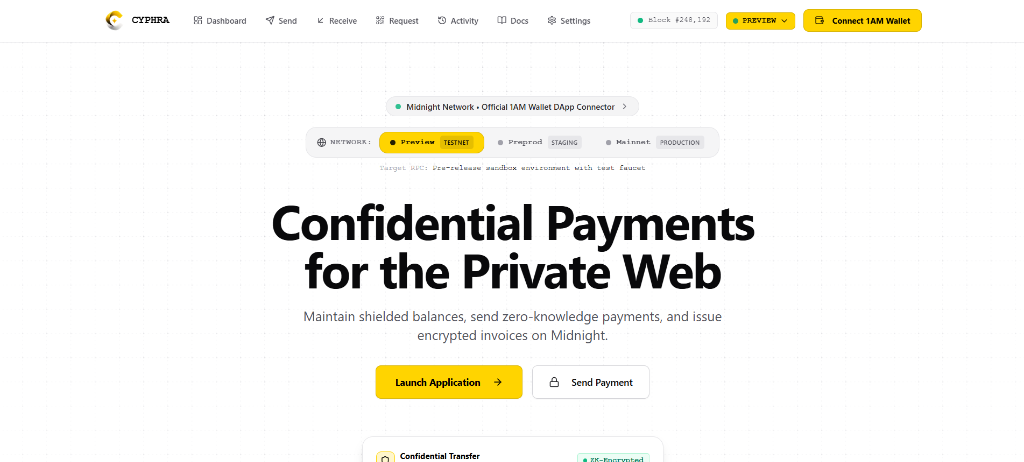
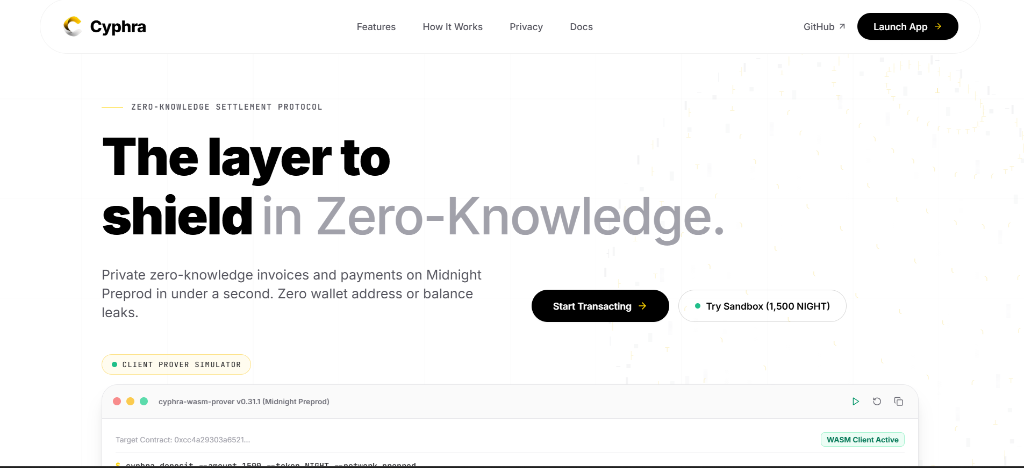
chore: update contract address to d72f60d3, restore app screenshots, update demo video link

diff --git a/frontend/app/settings/page.tsx b/frontend/app/settings/page.tsx
@@ -139,13 +139,13 @@ export default function SettingsPage() {
             <div>
               <span className="text-zinc-500 block mb-1 font-semibold">Contract Address:</span>
               <div className="p-2 rounded-lg bg-zinc-50 border border-zinc-200 font-mono text-[11px] text-black break-all select-all font-bold">
[2 lines of base64/hex data omitted]
               </div>
             </div>
 
             <div className="grid grid-cols-1 sm:grid-cols-2 gap-2 pt-1">
               <a
-                href="https://explorer.1am.xyz/contract/0xcc4a29303a6521ef0881444ce30550d1dabccdd5d70da8c78463bb54ef96db3f?network=preprod"
+                href="https://explorer.1am.xyz/contract/0xd72f60d3f297dc84078e19677b60e88759f9982a3ea3dbf87a387814cda034ad?network=preprod"
                 target="_blank"
                 rel="noopener noreferrer"
                 className="flex items-center justify-between p-2.5 rounded-lg border border-zinc-200 hover:border-black bg-zinc-50 hover:bg-zinc-100 transition-colors font-sans text-xs font-semibold text-black"
@@ -155,7 +155,7 @@ export default function SettingsPage() {
               </a>
 
               <a
-                href="https://preprod.midnightexplorer.com/contracts/0xcc4a29303a6521ef0881444ce30550d1dabccdd5d70da8c78463bb54ef96db3f"
+                href="https://preprod.midnightexplorer.com/contracts/0xd72f60d3f297dc84078e19677b60e88759f9982a3ea3dbf87a387814cda034ad"
                 target="_blank"
                 rel="noopener noreferrer"
                 className="flex items-center justify-between p-2.5 rounded-lg border border-zinc-200 hover:border-black bg-zinc-50 hover:bg-zinc-100 transition-colors font-sans text-xs font-semibold text-black"

diff --git a/frontend/lib/cyphra-content.ts b/frontend/lib/cyphra-content.ts
@@ -26,7 +26,7 @@ export const CYPHRA_CONTENT = {
     xProfileHandle: "@CyphraPayment",
     feedbackForm: "https://docs.google.com/forms/d/e/1FAIpQLSfYoSRlafFLyKo5R6SVqjmtk8gNNz3keOI36e8WwFDYxyf9yA/viewform",
     feedbackSheet: "https://docs.google.com/spreadsheets/d/13xJHXvW1zvbJI4OaE25Wh2Gar39tL4_U0Vgl0ia4zy8/edit?usp=sharing",
-    preprodExplorer: "https://preprod.midnightexplorer.com/contracts/0xcc4a29303a6521ef0881444ce30550d1dabccdd5d70da8c78463bb54ef96db3f",
+    preprodExplorer: "https://preprod.midnightexplorer.com/contracts/0xd72f60d3f297dc84078e19677b60e88759f9982a3ea3dbf87a387814cda034ad",
     oneAmWallet: "https://1am.xyz",
     faucetUrl: "https://faucet.preprod.midnight.network",
   },
@@ -58,7 +58,7 @@ export const CYPHRA_CONTENT = {
   contract: {
     network: "Midnight Preprod Testnet",
     version: "Compact 0.31.1 Standard",
[2 lines of base64/hex data omitted]
     status: "🟢 ACTIVE PREPROD CONTRACT",
     source: "contracts/cyphra/src/cyphra.compact",
     circuits: [

diff --git a/frontend/components/payment/ProofProgressModal.tsx b/frontend/components/payment/ProofProgressModal.tsx
@@ -139,7 +139,7 @@ export function ProofProgressModal({ isOpen, step, onClose, txHash }: ProofProgr
                       <Copy className="w-3 h-3" /> Copy Hash
                     </button>
                     <a
-                      href={`https://preprod.midnightexplorer.com/contracts/0xcc4a29303a6521ef0881444ce30550d1dabccdd5d70da8c78463bb54ef96db3f`}
+                      href={`https://preprod.midnightexplorer.com/contracts/0xd72f60d3f297dc84078e19677b60e88759f9982a3ea3dbf87a387814cda034ad`}
                       target="_blank"
                       rel="noopener noreferrer"
                       className="px-2 py-0.5 rounded text-[11px] font-mono font-semibold bg-[#FFD400] hover:bg-[#E5BE00] text-black border border-black/15 transition-colors flex items-center gap-1"

diff --git a/frontend/components/wallet/NetworkBadge.tsx b/frontend/components/wallet/NetworkBadge.tsx
@@ -126,7 +126,7 @@ export function NetworkBadge() {
             <div className="p-2 border-t border-zinc-100 mt-1 bg-zinc-50 text-[10px] text-zinc-500 font-mono flex items-center justify-between">
               <span className="font-bold text-zinc-700">Contract State:</span>
               <a
-                href="https://preprod.midnightexplorer.com/contracts/0xcc4a29303a6521ef0881444ce30550d1dabccdd5d70da8c78463bb54ef96db3f"
+                href="https://preprod.midnightexplorer.com/contracts/0xd72f60d3f297dc84078e19677b60e88759f9982a3ea3dbf87a387814cda034ad"
                 target="_blank"
                 rel="noreferrer"
                 className="text-black hover:underline font-bold"

diff --git a/frontend/components/layout/Footer.tsx b/frontend/components/layout/Footer.tsx
@@ -68,7 +68,7 @@ export function Footer() {
             <span>•</span>
             {/* Contract link */}
             <a
-              href="https://preprod.midnightexplorer.com/contracts/0xcc4a29303a6521ef0881444ce30550d1dabccdd5d70da8c78463bb54ef96db3f"
+              href="https://preprod.midnightexplorer.com/contracts/0xd72f60d3f297dc84078e19677b60e88759f9982a3ea3dbf87a387814cda034ad"
               target="_blank"
               rel="noreferrer"
               className="text-zinc-700 hover:text-black hover:underline font-bold"

diff --git a/frontend/lib/one-am-wallet-adapter.ts b/frontend/lib/one-am-wallet-adapter.ts
@@ -27,7 +27,7 @@ export type SupportedNetwork = 'preview' | 'preprod' | 'mainnet';
 
 export const AUTHORIZED_NETWORKS: readonly SupportedNetwork[] = ['preview', 'preprod', 'mainnet'] as const;
 
[2 lines of base64/hex data omitted]
 
 function assertNetworkAllowed(network: SupportedNetwork): void {
   if (!AUTHORIZED_NETWORKS.includes(network)) {

diff --git a/frontend/lib/api-client.ts b/frontend/lib/api-client.ts
@@ -261,7 +261,7 @@ export const apiClient = {
       const demoSeed: TransactionActivity[] = [
         {
           id: 'act_preprod_seed_1',
[2 lines of base64/hex data omitted]
           type: 'shield_deposit',
           amount: '1,500.00',
           tokenType: 'NIGHT',

diff --git a/README.md b/README.md
@@ -47,13 +47,33 @@ Unlike legacy blockchains where user balances, counterparty addresses, and entir
 
 ---
 
+### 1. Homepage — Confidential Payments for the Private Web
+
+<p align="center">
+  <img src="./docs/screenshots/01-landing.png" alt="Cyphra Landing Page" width="820" />
+</p>
+
+The Cyphra homepage with animated hero, live Client Prover Simulator terminal, and official 1AM Wallet DApp Connector integration.
+
+---
+
+### 2. Dashboard — Confidential Treasury & ZK Proof Workflow
+
+<p align="center">
+  <img src="./docs/screenshots/02-dashboard.png" alt="Cyphra Dashboard" width="820" />
+</p>
+
+Dashboard showing the **Confidential Shielded Vault** (1,500 NIGHT · 120 DUST · 2,500 tCYPHRA), Privacy Health score **81%**, quick action cards (Send Confidential, Receive Payment, Request Payment, Shield Funds), and the full Zero-Knowledge architecture flow.
+
+---
+
 ### 🔗 Contract Deployment — Midnight Preprod Explorer
 
 <p align="center">
   <img src="./docs/screenshots/05-contract-preprod.png" alt="Cyphra Contract on Midnight Preprod Explorer" width="820" />
 </p>
 
-**Live verification on [midnightexplorer.com](https://preprod.midnightexplorer.com/contracts/0xcc4a29303a6521ef0881444ce30550d1dabccdd5d70da8c78463bb54ef96db3f)** — Contract `0xcc4a2930…96db3f` status **● DEPLOYED**, deployed at Block **#2,518,562** on **Sep 12, 2026, 2:40 PM UTC** with full on-chain Ledger State.
+**Live verification on [midnightexplorer.com](https://preprod.midnightexplorer.com/contracts/d72f60d3f297dc84078e19677b60e88759f9982a3ea3dbf87a387814cda034ad)** — Contract `0xd72f60d3…034ad` status **● DEPLOYED**, deployed at Block **#2,880,143** on **Sep 23, 2026, 9:22 PM UTC** with full on-chain Ledger State.
 
 ---
 
@@ -67,9 +87,12 @@ Unlike legacy blockchains where user balances, counterparty addresses, and entir
 |---|---|---|
 | **Network** | **Midnight Preprod** | Official decentralized Midnight test ledger |
 | **Contract Name** | `CyphraConfidentialPayment` | Privacy-preserving Compact smart contract |
[1 lines of base64/hex data omitted]
-| **Explorer Verification** | [Midnight Preprod Explorer](https://preprod.midnightexplorer.com/contracts/0xcc4a29303a6521ef0881444ce30550d1dabccdd5d70da8c78463bb54ef96db3f) | Verified on-chain ledger state |
-| **1AM Explorer** | [1AM Explorer Contract View](https://explorer.1am.xyz/contract/0xcc4a29303a6521ef0881444ce30550d1dabccdd5d70da8c78463bb54ef96db3f?network=preprod) | 1AM DApp Connector contract index |
[1 lines of base64/hex data omitted]
+| **Explorer Verification** | [Midnight Preprod Explorer](https://preprod.midnightexplorer.com/contracts/d72f60d3f297dc84078e19677b60e88759f9982a3ea3dbf87a387814cda034ad) | Verified on-chain ledger state |
+| **1AM Explorer** | [1AM Explorer Contract View](https://explorer.1am.xyz/contract/0xd72f60d3f297dc84078e19677b60e88759f9982a3ea3dbf87a387814cda034ad?network=preprod) | 1AM DApp Connector contract index |
+| **Deployment Block** | **#2,880,143** | Block hash: `0xb63fcc7e…82373f99` |
+| **Deployed At** | **Sep 23, 2026, 9:22 PM UTC** | Timestamp confirmed on-chain |
[1 lines of base64/hex data omitted]
 | **Ledger Version** | Midnight Ledger 8.0 Preprod | Consensus state machine |
 | **Compact Compiler** | Compact v0.31.1 (`.compact`) | Zero-knowledge intermediate representation |
 | **Active Circuits** | `deposit`, `confidentialTransfer`, `registerPaymentRequest`, `fulfillPaymentRequest`, `grantAuditorAccess`, `revokeAuditorAccess` | 6 full Groth16 cryptographic circuits |
@@ -81,7 +104,7 @@ Unlike legacy blockchains where user balances, counterparty addresses, and entir
 
 A full walkthrough of Cyphra MVP: 1AM Wallet connection on Midnight Preprod, private note commitment creation, confidential transfers, and QR payment request workflows.
 
-- 🎬 **Watch Demo**: [Screen_Recording_2026-09-17_230655.mp4](https://res.cloudinary.com/wt88ln1l/video/upload/v1789666881/Screen_Recording_2026-09-17_230655.mp4)
+- 🎬 **Watch Demo**: [Cyphra MVP Walkthrough](https://drive.google.com/file/d/1MzidnKIqmZnQtFFP-OLMwdHGjNPe6Bps/view?usp=sharing)
 
 ---
 
@@ -90,15 +113,15 @@ A full walkthrough of Cyphra MVP: 1AM Wallet connection on Midnight Preprod, pri
 | Requirement to Pass | Submission Item | Details / Link | Status |
 |---|---|---|---|
 | **Working MVP live on Preprod** | **Live Preprod Demo DApp** | [https://cyphra-two.vercel.app](https://cyphra-two.vercel.app) | Verified Live |
[1 lines of base64/hex data omitted]
-| **Explorer Verification (Midnight)** | **Midnight Network Explorer** | [Midnight Explorer: 0xcc4a29...](https://preprod.midnightexplorer.com/contracts/0xcc4a29303a6521ef0881444ce30550d1dabccdd5d70da8c78463bb54ef96db3f) | Verified On-Chain |
[1 lines of base64/hex data omitted]
+| **Explorer Verification (Midnight)** | **Midnight Network Explorer** | [Midnight Explorer: 0xd72f60d3...](https://preprod.midnightexplorer.com/contracts/d72f60d3f297dc84078e19677b60e88759f9982a3ea3dbf87a387814cda034ad) | Verified On-Chain |
 | **Level 5: 50+ Preprod Wallet Addresses** | **user.md — 79 Real Addresses** | [`user.md`](user.md) (79 unique `mn_addr_preprod1...` from Preprod tester cohort) | **79 Verified** |
 | **Level 5: Feedback with Code Changes** | **docs/FEEDBACK.md** | [`docs/FEEDBACK.md`](docs/FEEDBACK.md) — What We Heard / What We Changed (6 changes) | **Implemented** |
 | **Launch Users Onboarded** | **Preprod Launch Cohort** | [`LAUNCH_USERS.md`](LAUNCH_USERS.md) (20 Users Personally Onboarded with TX Hashes) | 20 Verified Users |
 | **User Feedback & 79 Addresses** | **Feedback & Resolution Matrix** | [`user.md`](user.md) (79 Preprod Test Accounts + User Feedback Matrix) | Highlighted & Solved |
 | **Brand Visuals & Assets** | **Brand Brief, Logo & X Banner** | [`docs/brand-brief.md`](docs/brand-brief.md) + Vector Logo & X Banner Assets | Complete Brand Kit |
 | **Product X Profile & Posts** | **Official X Account & Live Posts** | [@CyphraPayment](https://x.com/CyphraPayment) ([Post 1](https://x.com/CyphraPayment/status/2100484238172664311), [Post 2](https://x.com/CyphraPayment/status/2101046395298078809), [Post 3](https://x.com/CyphraPayment/status/2101048165730574842)) | Published & Linked |
-| **Demo Video of the MVP** | **High-Definition Walkthrough** | [Watch MVP Demo Video](https://res.cloudinary.com/wt88ln1l/video/upload/v1789666881/Screen_Recording_2026-09-17_230655.mp4) | High Quality (Cloudinary MP4) |
+| **Demo Video of the MVP** | **High-Definition Walkthrough** | [Watch MVP Demo Video](https://drive.google.com/file/d/1MzidnKIqmZnQtFFP-OLMwdHGjNPe6Bps/view?usp=sharing) | Google Drive MP4 |
 | **Public GitHub Repository** | **Source Code & Documentation** | [https://github.com/BDutta18/Cyphra](https://github.com/BDutta18/Cyphra) | Public Monorepo |
 | **CI/CD Pipeline** | **GitHub Actions CI/CD** | [CI Workflow](https://github.com/BDutta18/Cyphra/actions/workflows/ci.yml) & [Preprod Deployment](https://github.com/BDutta18/Cyphra/actions/workflows/preprod.yml) | Passing (100% Green) |
 | **Meaningful Commits** | **Commit History** | 80+ atomic commits across contracts, frontend, backend & onboarding | Minimum 15 Exceeded |
@@ -279,8 +302,8 @@ Default Preprod settings in `.env`:
 MIDNIGHT_NETWORK=preprod
 MIDNIGHT_RPC_URL=https://rpc.preprod.midnight.network
 MIDNIGHT_INDEXER_URI=https://indexer.preprod.midnight.network/api/v4/graphql
-CONTRACT_ADDRESS=0xcc4a29303a6521ef0881444ce30550d1dabccdd5d70da8c78463bb54ef96db3f
-NEXT_PUBLIC_CYPHRA_CONTRACT_ADDRESS=0xcc4a29303a6521ef0881444ce30550d1dabccdd5d70da8c78463bb54ef96db3f
+CONTRACT_ADDRESS=0xd72f60d3f297dc84078e19677b60e88759f9982a3ea3dbf87a387814cda034ad
+NEXT_PUBLIC_CYPHRA_CONTRACT_ADDRESS=0xd72f60d3f297dc84078e19677b60e88759f9982a3ea3dbf87a387814cda034ad
 NEXT_PUBLIC_MIDNIGHT_NETWORK=preprod
 NEXT_PUBLIC_API_URL=http://localhost:4000
 ```
@@ -393,12 +416,12 @@ The contract is live on the official Midnight Preprod network:
 
 - **Contract Address**:
   ```
[2 lines of base64/hex data omitted]
   ```
 - **1AM Explorer Verification Link**:
-  [https://explorer.1am.xyz/contract/0xcc4a29303a6521ef0881444ce30550d1dabccdd5d70da8c78463bb54ef96db3f?network=preprod](https://explorer.1am.xyz/contract/0xcc4a29303a6521ef0881444ce30550d1dabccdd5d70da8c78463bb54ef96db3f?network=preprod)
+  [https://explorer.1am.xyz/contract/0xd72f60d3f297dc84078e19677b60e88759f9982a3ea3dbf87a387814cda034ad?network=preprod](https://explorer.1am.xyz/contract/0xd72f60d3f297dc84078e19677b60e88759f9982a3ea3dbf87a387814cda034ad?network=preprod)
 - **Midnight Explorer Verification Link**:
-  [https://preprod.midnightexplorer.com/contracts/0xcc4a29303a6521ef0881444ce30550d1dabccdd5d70da8c78463bb54ef96db3f](https://preprod.midnightexplorer.com/contracts/0xcc4a29303a6521ef0881444ce30550d1dabccdd5d70da8c78463bb54ef96db3f)
+  [https://preprod.midnightexplorer.com/contracts/d72f60d3f297dc84078e19677b60e88759f9982a3ea3dbf87a387814cda034ad](https://preprod.midnightexplorer.com/contracts/d72f60d3f297dc84078e19677b60e88759f9982a3ea3dbf87a387814cda034ad)
 
 To run the on-chain preprod deployment script with your own wallet:
 ```powershell
